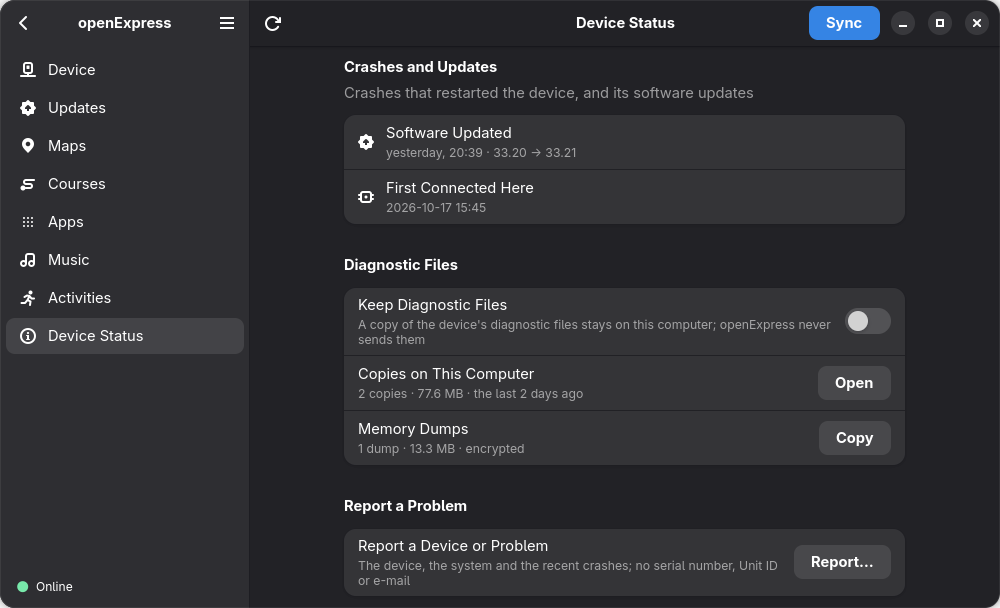
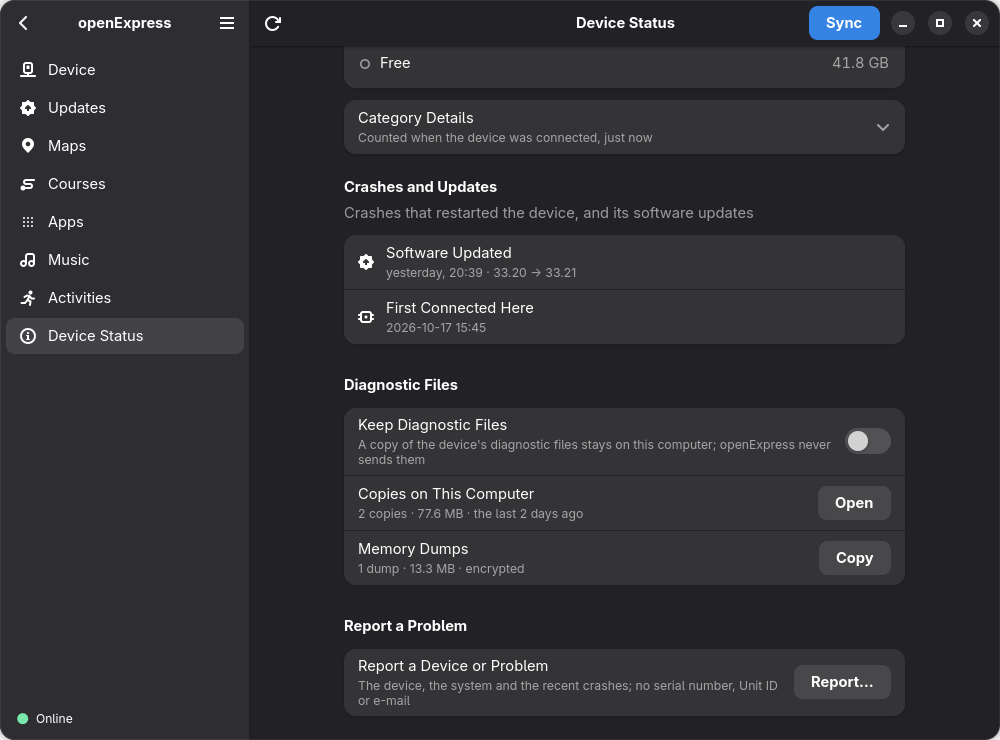
Screenshots: the Device Status pages as full windows like every other picture
status.png and status-history.png were cut to the end of a group (1000 x 616
and 1000 x 608); they are now windows of 1000 x 740, as the rest of
docs/screenshots. The alt text of status-history.png names the Edge 1050 a
bike computer.

diff --git a/docs/guide.md b/docs/guide.md
@@ -440,7 +440,7 @@ choose under Free Up Space.
 
 <p align="center">
   <img src="screenshots/status-history.png" width="700"
-       alt="The Device Status page of an Edge 1050: its software update from 33.20 to 33.21 and its first connection to this computer, its diagnostic files (two copies on this computer, one memory dump) and Report a Problem">
+       alt="The Device Status page of an Edge 1050 bike computer: here an update just installed, from 33.20 to 33.21, and its first connection to this computer; its diagnostic files (two copies on this computer, one memory dump) and Report a Problem">
 </p>
 
 The device page leads there from its rows **Device Storage** and **Device Status**.

diff --git a/README.md b/README.md
@@ -74,7 +74,7 @@ devices that connect over USB (MTP) should work too – reports are welcome.
 
 <p align="center">
   <img src="docs/screenshots/status.png" width="700"
-       alt="The Device Status page of a fēnix 8: four crashes in the last 30 days, and its storage by kind of file, maps the largest">
+       alt="The Device Status page of a fēnix 8 watch: four crashes in the last 30 days, its storage by kind of file, maps the largest, and the newest crash at the top of its list">
 </p>
 
 ## Supported devices
